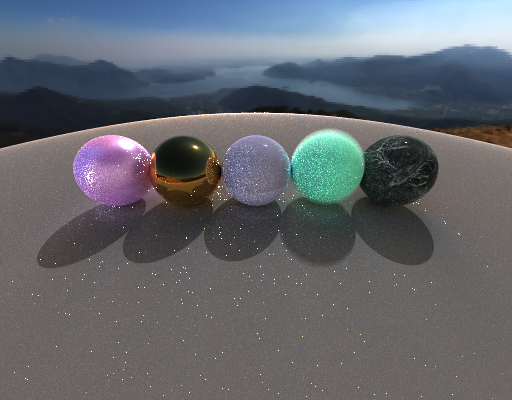
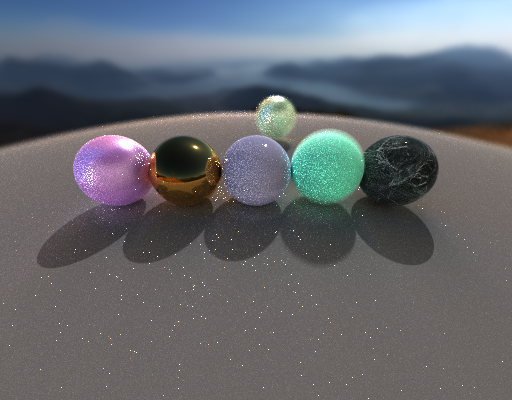
add camera focus

diff --git a/pbrtrs_main/src/main.rs b/pbrtrs_main/src/main.rs
@@ -27,6 +27,7 @@ use tev_client::{PacketCreateImage, PacketUpdateImage, TevClient};
 
 #[cfg(feature = "enable_debugger")]
 use pbrtrs_core::debugger::debug_info;
+use pbrtrs_core::util::random_concentric_disk;
 
 #[cfg(feature = "enable_debugger")]
 const DEBUG_PIXEL: (usize, usize) = (175, 153);
@@ -103,12 +104,24 @@ fn main() {
                 for _ in 0..scene.camera.num_samples {
                     debugger::begin_sample!();
                     let time = scalar::rand() * scene.camera.exposure_time;
+
                     let x = x as Scalar + scalar::rand();
                     let y = y as Scalar + scalar::rand();
                     let x = (x / image_width as Scalar) * 2.0 - 1.0;
                     let y = ((y / image_height as Scalar) * 2.0 - 1.0) / aspect_ratio;
                     let ray_dir = camera_basis * vec3(x, y, scene.camera.sensor_distance);
-                    let ray = Ray::new(scene.camera.position, ray_dir, time);
+
+                    let pc = scene.camera.position;
+                    let pr = scene.camera.position
+                        + camera_basis
+                            * (scene.camera.aperture * random_concentric_disk())
+                                .to_vec()
+                                .extend(0.0);
+                    let wp = ray_dir.normalize();
+                    let pl = pc + scene.camera.focus_distance * wp;
+                    let wr = pl - pr;
+
+                    let ray = Ray::new(pr, wr, time);
 
                     let sample_color = ray_color(&ray, &scene, &arena);
                     debugger::end_sample!(sample_color);

diff --git a/pbrtrs_core/src/scene.rs b/pbrtrs_core/src/scene.rs
@@ -216,6 +216,8 @@ struct CameraRaw {
     pub direction: Vec3,
     pub sensor_distance: Scalar,
     pub exposure_time: Scalar,
+    pub aperture: Scalar,
+    pub focus_distance: Scalar,
 
     pub bounce_limit: usize,
     pub num_samples: usize,
@@ -229,6 +231,8 @@ pub struct Camera {
     pub direction: Vec3,
     pub sensor_distance: Scalar,
     pub exposure_time: Scalar,
+    pub aperture: Scalar,
+    pub focus_distance: Scalar,
 
     pub bounce_limit: usize,
     pub num_samples: usize,
@@ -243,6 +247,8 @@ impl<'de> DeserializeTrait<'de> for Camera {
             direction,
             sensor_distance,
             exposure_time,
+            aperture,
+            focus_distance,
             bounce_limit,
             num_samples,
             width,
@@ -253,6 +259,8 @@ impl<'de> DeserializeTrait<'de> for Camera {
             direction: direction.normalize(),
             sensor_distance,
             exposure_time,
+            aperture,
+            focus_distance,
             bounce_limit,
             num_samples,
             width,
